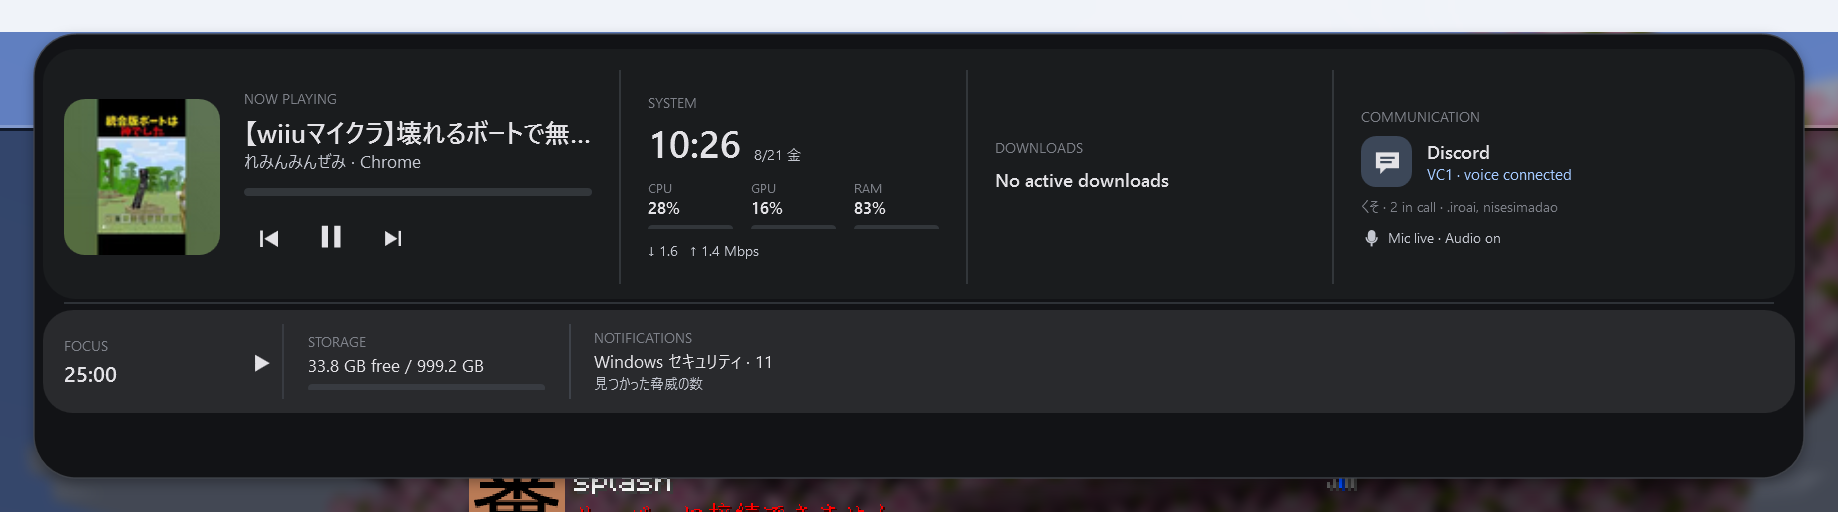
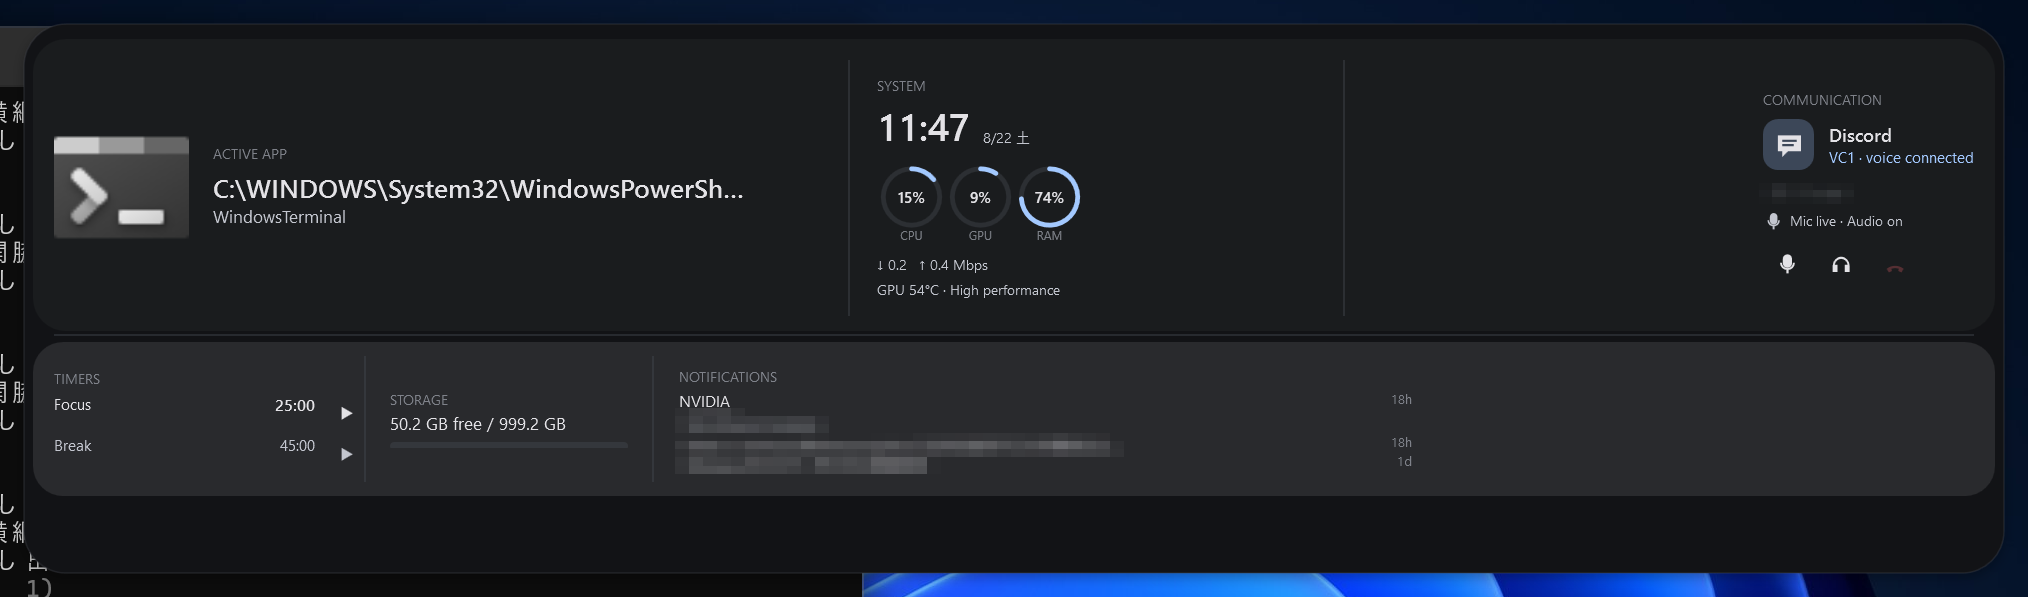
Refresh screenshots and project documentation

diff --git a/README.md b/README.md
@@ -1,9 +1,9 @@
-<p align="center">
+<p align="center">
   <img src="assets/banner.svg" alt="TopIsland" width="100%">
 </p>
 
 <p align="center">
-  <a href="README.ja.md">譌･譛ｬ隱・/a> ﾂｷ English
+  <a href="README.ja.md">日本語</a> · English
 </p>
 
 <p align="center">
@@ -31,6 +31,7 @@ TopIsland currently uses real Windows/application data for:
 - Windows GMTC media title, source, artwork, playback position and Previous / Play-Pause / Next
 - Foreground application title, process and executable icon when there is no active media session
 - **CPU / GPU / RAM** usage
+- **Discord VC** from the live Discord Desktop accessibility tree, including hidden/tray-minimized Electron windows, channel/server, participant count, Mute/Deafen state and real Mute / Deafen / Leave controls when Discord exposes those UIA patterns
 - Network download/upload throughput
 - System-drive free/total storage
 - Active browser/download-manager partial downloads, including current bytes and measured transfer speed when available
@@ -43,25 +44,32 @@ Notification permission is never requested automatically. If access is not alrea
 
 ## Interaction states
 
-- **Idle** 窶・minimum information for the selected width
-- **Hover** 窶・subtly wider/deeper
-- **Peek** 窶・reveals selected lower-priority information without opening the full surface
-- **Expanded** 窶・media/context row plus one lower information lane separated only by hairline dividers
+- **Idle** — minimum information for the selected width
+- **Hover** — subtly wider/deeper
+- **Peek** — reveals selected lower-priority information without opening the full surface
+- **Expanded** — context/media and System stay primary; active Downloads and Discord voice join only when real data exists, with Timers / Storage / optional Notifications / Battery in the lower lane
 
-Smaller widths remove information instead of shrinking every label. Expanded grows to a readable minimum width for its four regions; Full Width may reveal extra network/storage/activity status without stretching artwork, text, or progress controls.
+Smaller widths remove information instead of shrinking every label. Empty modules do not reserve space: Downloads exists only while a partial download is actively changing, Discord appears only while voice is connected, and optional notification/battery lanes collapse when unavailable. Full Width may reveal extra network/storage/activity status without stretching artwork, text, or progress controls.
 
 ## Screenshots
 
 <table>
   <tr>
-    <td align="center"><b>Dynamic Island ﾂｷ Expanded</b></td>
-    <td align="center"><b>Notch ﾂｷ Authentic</b></td>
+    <td align="center"><b>Dynamic Island · Material You</b></td>
+    <td align="center"><b>Notch · Glass / Live Blur</b></td>
   </tr>
   <tr>
     <td><img src="docs/screenshots/dynamic-expanded.png" alt="TopIsland Dynamic Island expanded"></td>
     <td><img src="docs/screenshots/notch-expanded.png" alt="TopIsland Notch expanded with Glass live blur"></td>
   </tr>
 </table>
+
+<p align="center">
+  <b>Full Width · Material You</b><br>
+  <img src="docs/screenshots/fullwidth-materialyou.png" alt="TopIsland Full Width compact Material You" width="100%">
+</p>
+
+> Repository screenshots are real runtime captures. Privacy-sensitive notification/voice labels are pixelated before commit.
 
 ## System tray
 
@@ -86,13 +94,13 @@ The WPF host and the blur helper are **PerMonitorV2**. TopIsland reads each moni
 
 Current display modes:
 
-- **Follow active app** 窶・follow the monitor containing the foreground window
+- **Follow active app** — follow the monitor containing the foreground window
 - **Primary display**
-- **Fixed display** 窶・pin TopIsland to a selected connected monitor
+- **Fixed display** — pin TopIsland to a selected connected monitor
 
 A follow transition fades out briefly, moves/recalculates for the destination DPI, then fades back in instead of sliding through unrelated monitor coordinate spaces.
 
-The current development machine verifies a 3840ﾃ・160 display at 150% and a 2560ﾃ・440 display at 125%.
+The current development machine verifies a 2560×1440 display at 150% and a 2048×1152 display at 125%.
 
 ## Design baseline
 
@@ -127,7 +135,7 @@ TopIsland intentionally does not apply the native DWM backdrop directly to the t
 3. clips the result to the exact Dynamic Island or inverse-radius Notch path with per-pixel alpha,
 4. places that blur surface directly below the WPF text/controls.
 
-This keeps the real geometry and click-through padding intact without a gray rectangle around it. The helper updates around 30 fps for normal surfaces and reduces the update rate for very large Full Width surfaces. On the current development PC, measured BlurHost usage is roughly **1% CPU and 40窶・0 MB working set** in representative Standard/Full Width cases.
+This keeps the real geometry and click-through padding intact without a gray rectangle around it. The helper stays responsive while the shell is moving, then reduces its refresh rate after the geometry settles. It also reuses Skia objects and blurs a half-resolution working surface before compositing at full resolution. On the current development PC, representative Glass Expanded measurements are roughly **1.8% normalized CPU / 55–60 MB working set** at Standard width and about **2.8% CPU** at Full Width. These are prototype measurements, not a hardware-independent target.
 
 If BlurHost is unavailable, TopIsland automatically falls back to the denser non-blurred material tint instead of leaving the surface unreadable.
 
@@ -179,4 +187,4 @@ Local installation uses `%LOCALAPPDATA%\Programs\TopIsland` and creates a Start 
 
 ## Status
 
-TopIsland is still an interactive prototype, but its core overlay is functional: media/foreground context, the four-region Expanded layout, Discord voice-state reading, focus/download monitoring, Windows notification reading when permitted, geometry/motion, click-through and no-activate behavior, system-tray configuration, persistence, multi-display placement, PerMonitorV2 scaling, Material You dynamic color, and shape-clipped live blur materials are working.
+TopIsland is still an interactive prototype, but its core overlay is functional: media/foreground context, the contextual Expanded layout, hidden-window Discord voice-state/control integration, focus/download monitoring, Windows notification reading when permitted, geometry/motion, click-through and no-activate behavior, system-tray configuration, persistence, multi-display placement, PerMonitorV2 scaling, Material You dynamic color, and shape-clipped live blur materials are working.

diff --git a/docs/DESIGN-AUDIT.md b/docs/DESIGN-AUDIT.md
@@ -73,7 +73,7 @@ Expanded Notch follows the BoringNotch relationship:
 - Standard: add subtitle/source when space allows
 - Idle >= 520 dip: allow compact CPU/RAM
 - Peek >= 430 dip: allow compact CPU/RAM
-- Expanded: four primary regions: Now Playing, System, Downloads, and Communication. The lower lane is reserved for Focus, Storage, Notifications, and Battery when available.
+- Expanded: Context/Now Playing and System are the stable primary regions. Active Downloads and connected Communication join only while their real data exists; the lower lane holds Timers, Storage, and optional Notifications/Battery.
 
 Do not scale typography down to preserve content. Remove lower-priority content instead.
 
@@ -122,6 +122,7 @@ Before merging visual changes:
 - Secondary/source text is smaller and quieter; it must not compete with the title.
 - Clock and changing numeric telemetry use tabular numeral alignment so updates do not shift the layout.
 - Expanded content fades and moves only a few device-independent pixels.
+- Shell morphs use one restrained ease-out profile (power 2.2) across size/position/shape, with shorter durations for Hover/Peek and no spring overshoot. Mid-transition reversals resume from the mathematically current interpolated rectangle instead of a potentially stale WPF `ActualWidth`.
 - Avoid large slides, bounce, scale pulses, and decorative spring overshoot.
 - Compact and Expanded are alternate presentations of the same surface; do not show both information layouts at once.
 - Hover should feel like a subtle increase in presence, not a separate card appearing.
@@ -169,13 +170,13 @@ The overlay is an information surface, not the settings window.
 
 More information is allowed only when the surface has enough room and the data is real.
 
-- Expanded uses four primary regions on the main row, separated by vertical hairlines, plus one secondary information lane separated by a horizontal hairline.
+- Expanded has a stable context/media region and System region. Downloads and Communication are conditional main-row modules that allocate width only while their real activity exists. A lower lane holds Timers, Storage, and optional Notifications/Battery.
 - Secondary groups use vertical hairlines and spacing, not rounded card containers.
-- Current main-row modules are Now Playing, System, Downloads, and Communication. The lower lane contains Focus, Storage, Notifications, and Battery when present.
+- Downloads must disappear when no partial download is actively changing; a stale `.crdownload`/`.part` file is not enough to justify a module. Communication must disappear when Discord is not in voice.
 - CPU/GPU/RAM are three small aligned metrics with restrained progress bars; Network stays compact telemetry. Do not turn them into separate dashboard cards.
 - Hide a module when the underlying capability is unavailable (for example, Battery on a desktop or Notifications without permission).
 - Never invent download progress, notification content, Discord voice state, battery state, or other live values.
-- Discord voice information must come from the live Discord desktop UI tree. Show channel/server/participants/mute-deafen state only when observed; do not fabricate call controls or participant state.
+- Discord voice information must come from the live Discord desktop UI tree, including hidden/tray-minimized `Chrome_WidgetWin_1` windows when `MainWindowHandle` is zero. Show only observed channel/server/count/mute-deafen state. Enable Mute/Deafen/Leave controls only when Discord exposes the matching UI Automation pattern; do not fabricate controls or participant state.
 - Full Width may reveal extra NET / SSD / notification activity, but smaller widths remove those details.
 - A future module must justify its space with current or actionable information; an empty placeholder is not a reason to add another container.
 - Windows notification permission must be opt-in. Do not request it automatically at startup.
@@ -188,12 +189,12 @@ Blur must support the surface geometry rather than redefine it.
 - `Solid` remains the reference material, especially for Notch.
 - `Mica` remains a denser non-live surface.
 - `Acrylic` and `Glass` may use the external BlurHost renderer.
-- `Material You` is not a glass material. It uses a Material 3 HCT/TonalSpot dynamic scheme and semantic surface/container/state-layer roles; BlurHost must stay off.
+- `Material You` is not a glass material. It uses a Material 3 HCT/TonalSpot dynamic scheme and semantic surface/container/state-layer roles; BlurHost must stay off. Primary actions may use `PrimaryContainer`; accent color must not become a full-surface wash.
 - BlurHost captures only the TopIsland rectangle behind the layered windows; it must never capture the full desktop unnecessarily.
 - The blur output uses per-pixel alpha and the same Dynamic Island / inverse-radius Notch geometry as the WPF hit-test surface.
 - Never accept a rectangular DWM/Acrylic backdrop leaking outside the shape.
 - Acrylic/Glass differences should come primarily from blur radius and tint density. Material You instead follows Material 3 semantic color roles and state layers. Avoid decorative glass cards and arbitrary accent washes.
 - Text/control contrast is owned by the WPF foreground layer; the background blur must remain subordinate.
 - If BlurHost is unavailable, use the readable static fallback tint instead of partially broken transparency.
-- Normal surfaces target roughly 30 fps; very large surfaces may reduce the blur refresh rate to limit CPU use.
+- BlurHost may render around 30 fps while geometry is moving, then reduce refresh after the shell settles. Skia objects/buffers should be reused, and backdrop blur may use a half-resolution working surface before full-resolution shape compositing.
 - BlurHost must be click-through/no-activate and remain directly below the TopIsland foreground window.
